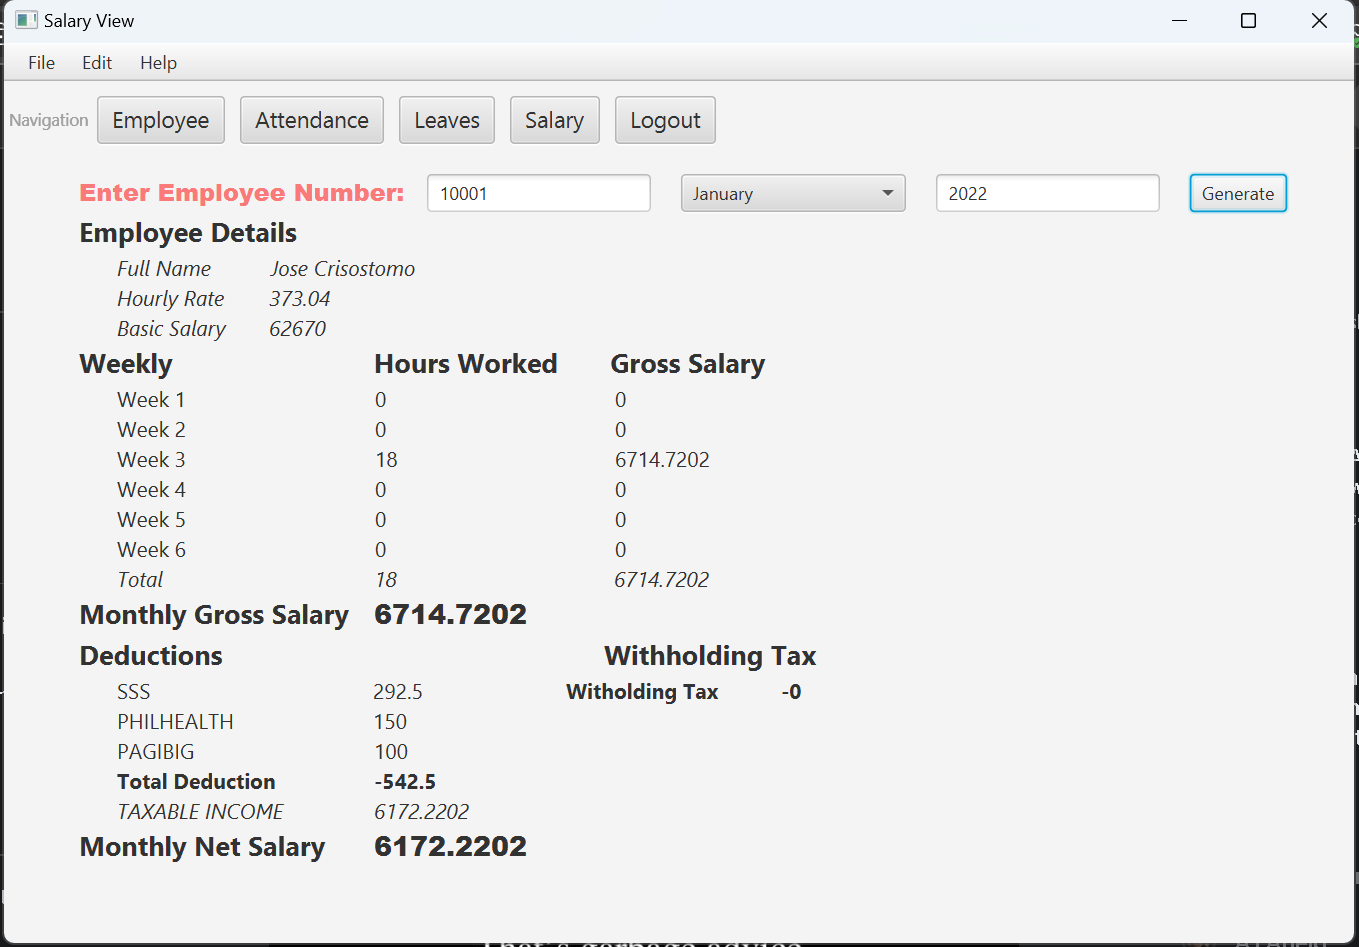
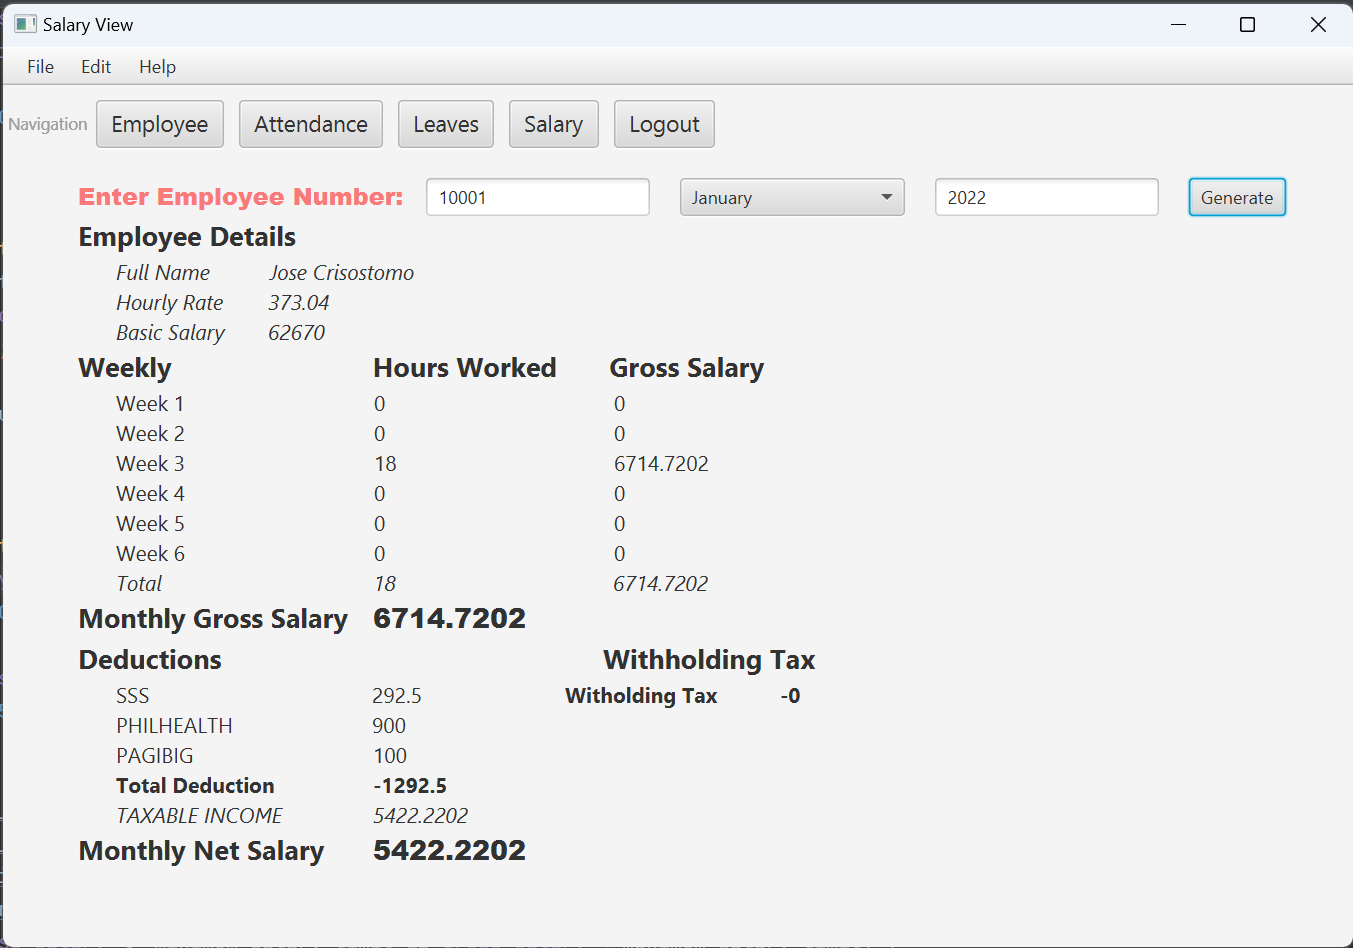
fixed philhealth computation

diff --git a/src/main/java/com/example/fx123/SalaryController.java b/src/main/java/com/example/fx123/SalaryController.java
@@ -6,8 +6,6 @@ import java.text.ParseException;
 import java.text.SimpleDateFormat;
 import java.util.Calendar;
 import java.util.Date;
-import java.util.GregorianCalendar;
-import java.util.concurrent.Callable;
 
 import javafx.event.ActionEvent;
 import javafx.fxml.FXML;
@@ -204,43 +202,43 @@ public class SalaryController implements Runnable {
         /**
          * Set Hours Worked Breakdown
          */
-        lbl_w1_hours_worked.setText(CsvUtils.makeStringLengthToTwelve(String.valueOf(
+        lbl_w1_hours_worked.setText(CsvUtils.makeStringLengthToTwenty(String.valueOf(
                 decimalFormat.format(getSalary.getWeekly_hours_worked(0)))));
-        lbl_w2_hours_worked.setText(CsvUtils.makeStringLengthToTwelve(String.valueOf(
+        lbl_w2_hours_worked.setText(CsvUtils.makeStringLengthToTwenty(String.valueOf(
                 decimalFormat.format(getSalary.getWeekly_hours_worked(1)))));
-        lbl_w3_hours_worked.setText(CsvUtils.makeStringLengthToTwelve(String.valueOf(
+        lbl_w3_hours_worked.setText(CsvUtils.makeStringLengthToTwenty(String.valueOf(
                 decimalFormat.format(getSalary.getWeekly_hours_worked(2)))));
-        lbl_w4_hours_worked.setText(CsvUtils.makeStringLengthToTwelve(String.valueOf(
+        lbl_w4_hours_worked.setText(CsvUtils.makeStringLengthToTwenty(String.valueOf(
                 decimalFormat.format(getSalary.getWeekly_hours_worked(3)))));
-        lbl_w5_hours_worked.setText(CsvUtils.makeStringLengthToTwelve(String.valueOf(
+        lbl_w5_hours_worked.setText(CsvUtils.makeStringLengthToTwenty(String.valueOf(
                 decimalFormat.format(getSalary.getWeekly_hours_worked(4)))));
-        lbl_w6_hours_worked.setText(CsvUtils.makeStringLengthToTwelve(String.valueOf(
+        lbl_w6_hours_worked.setText(CsvUtils.makeStringLengthToTwenty(String.valueOf(
                 decimalFormat.format(getSalary.getWeekly_hours_worked(5)))));
 
         /**
          * Set Gross Salary Breakdown
          */
-        lbl_w1_gross_salary.setText(CsvUtils.makeStringLengthToTwelve(String.valueOf(
+        lbl_w1_gross_salary.setText(CsvUtils.makeStringLengthToTwenty(String.valueOf(
                 decimalFormat.format(getSalary.getWeekly_gross_salary(0)))));
-        lbl_w2_gross_salary.setText(CsvUtils.makeStringLengthToTwelve(String.valueOf(
+        lbl_w2_gross_salary.setText(CsvUtils.makeStringLengthToTwenty(String.valueOf(
                 decimalFormat.format(getSalary.getWeekly_gross_salary(1)))));
-        lbl_w3_gross_salary.setText(CsvUtils.makeStringLengthToTwelve(String.valueOf(
+        lbl_w3_gross_salary.setText(CsvUtils.makeStringLengthToTwenty(String.valueOf(
                 decimalFormat.format(getSalary.getWeekly_gross_salary(2)))));
-        lbl_w4_gross_salary.setText(CsvUtils.makeStringLengthToTwelve(String.valueOf(
+        lbl_w4_gross_salary.setText(CsvUtils.makeStringLengthToTwenty(String.valueOf(
                 decimalFormat.format(getSalary.getWeekly_gross_salary(3)))));
-        lbl_w5_gross_salary.setText(CsvUtils.makeStringLengthToTwelve(String.valueOf(
+        lbl_w5_gross_salary.setText(CsvUtils.makeStringLengthToTwenty(String.valueOf(
                 decimalFormat.format(getSalary.getWeekly_gross_salary(4)))));
-        lbl_w6_gross_salary.setText(CsvUtils.makeStringLengthToTwelve(String.valueOf(
+        lbl_w6_gross_salary.setText(CsvUtils.makeStringLengthToTwenty(String.valueOf(
                 decimalFormat.format(getSalary.getWeekly_gross_salary(5)))));
 
         /**
          * Set total hours worked and gross salary
          */
-        lbl_total_hours_worked.setText(CsvUtils.makeStringLengthToTwelve(String.valueOf(
+        lbl_total_hours_worked.setText(CsvUtils.makeStringLengthToTwenty(String.valueOf(
                 decimalFormat.format(getSalary.getMonthly_hours_worked()))));
-        lbl_total_gross_salary.setText(CsvUtils.makeStringLengthToTwelve(String.valueOf(
+        lbl_total_gross_salary.setText(CsvUtils.makeStringLengthToTwenty(String.valueOf(
                 decimalFormat.format(getSalary.getMonthly_gross_salary()))));
-        lbl_total_gross_salary1.setText(CsvUtils.makeStringLengthToTwelve(String.valueOf(
+        lbl_total_gross_salary1.setText(CsvUtils.makeStringLengthToTwenty(String.valueOf(
                 decimalFormat.format(getSalary.getMonthly_gross_salary()))));
         double gross_salary = getSalary.getMonthly_hours_worked()
                 * Float.parseFloat(lbl_hourly_rate.getText());
@@ -272,7 +270,7 @@ public class SalaryController implements Runnable {
          * Set Value for tax
          */
 
-        lbl_witholding_tax.setText("-"+CsvUtils.makeStringLengthToTwelve(String.valueOf(decimalFormat.format(getDeduction.getWithholdingTax()))));
+        lbl_witholding_tax.setText("-"+CsvUtils.makeStringLengthToTwenty(String.valueOf(decimalFormat.format(getDeduction.getWithholdingTax()))));
 
         /**
          * Set Net Salary

diff --git a/src/main/java/com/example/fx123/Deduction.java b/src/main/java/com/example/fx123/Deduction.java
@@ -19,10 +19,10 @@ public class Deduction {
 
     public double deductPhilHealth() {
         double premium_rate = 0.03f, employee_share = 2;
-        if (gross_salary <= 10_000)
+        if (basic_salary <= 10_000)
             return 300 / employee_share;
-        else if (gross_salary > 10_000 && gross_salary < 60_000)
-            return (gross_salary * premium_rate) / employee_share;
+        else if (basic_salary > 10_000 && basic_salary < 60_000)
+            return (basic_salary * premium_rate) / employee_share;
         else
             return 1_800 / employee_share;
     }

diff --git a/src/samples/java/com/example/test/fx123/SamplemakeStringLengthToTwelve.java b/src/samples/java/com/example/test/fx123/SamplemakeStringLengthToTwelve.java
@@ -4,6 +4,6 @@ import com.example.fx123.CsvUtils;
 
 public class SamplemakeStringLengthToTwelve {
     public static void main(String[] args) {
-        System.out.println(CsvUtils.makeStringLengthToTwelve("62,100"));
+        System.out.println(CsvUtils.makeStringLengthToTwenty("62,100"));
     }
 }

diff --git a/src/main/java/com/example/fx123/CsvUtils.java b/src/main/java/com/example/fx123/CsvUtils.java
@@ -283,7 +283,7 @@ public class CsvUtils {
     }
 
 
-    public static String makeStringLengthToTwelve(String str) {
+    public static String makeStringLengthToTwenty(String str) {
         int maxLength = 20;
 
         str = String.format("%-" + maxLength + "s", str);
